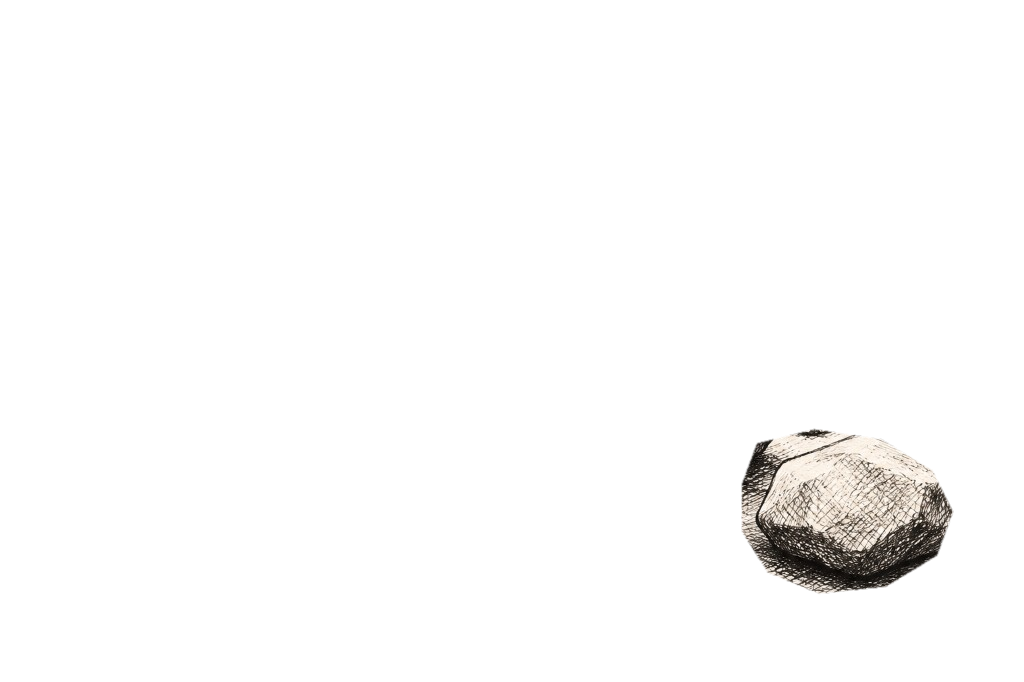
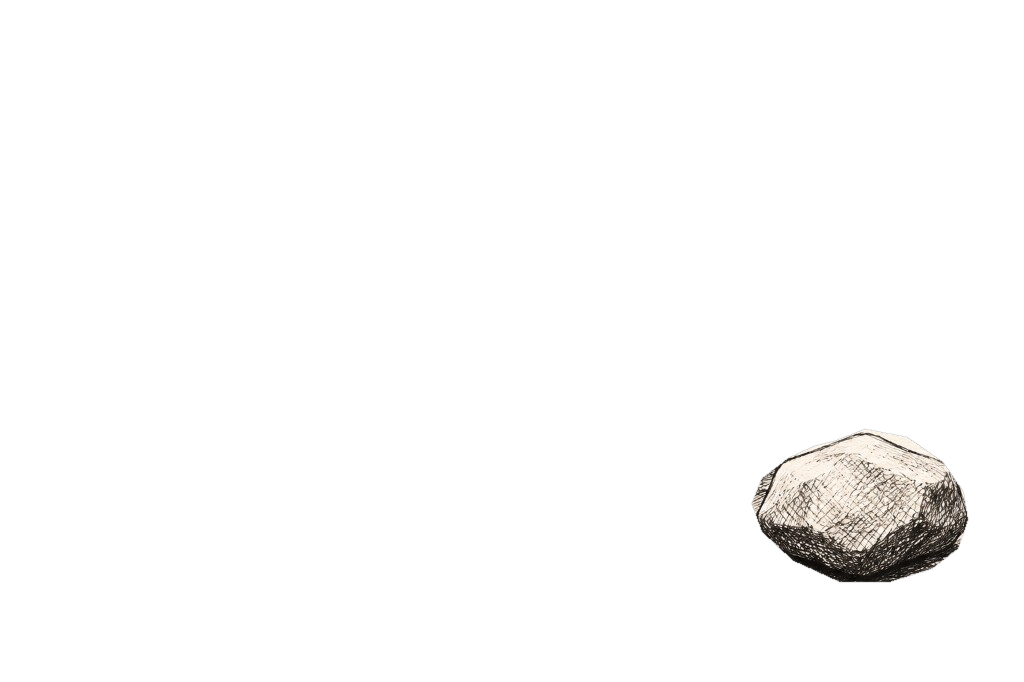
Revert "Merge pull request #30 from lilbirdlifecoaching/fix/rocks-idle-shimmer-no-instructions"
This reverts commit 776309d9571c6f7d0b42865dfe5ef14d01a9d112, reversing
changes made to c748cfa9e1f27547999dad33d99e03ef2b3f748c.

Changed region(s): [[0.7188, 0.6158, 0.9062, 0.893], [0.875, 0.6466, 0.9688, 0.8314]]

diff --git a/index.html b/index.html
@@ -61,7 +61,7 @@
   <link rel="preconnect" href="https://fonts.gstatic.com" crossorigin />
   <link href="https://fonts.googleapis.com/css2?family=Playfair+Display:ital,wght@0,400;0,700;1,400;1,700&family=DM+Sans:wght@300;400;500&family=DM+Mono:wght@300;400&family=Space+Mono:wght@400;700&display=swap" rel="stylesheet" />
   <link rel="stylesheet" href="/css/lilbird-tokens.css?v=20260917k" />
-  <link rel="stylesheet" href="/css/lilbird-home.css?v=20261103g" />
+  <link rel="stylesheet" href="/css/lilbird-home.css?v=20261103f" />
   <link rel="stylesheet" href="/css/lilbird-chat.css?v=20260917k" />
   <!-- Google Tag Manager -->
   <script src="/lilbird-gtm-id.js"></script>
@@ -291,19 +291,22 @@
     <h2 class="story-headline reveal reveal-delay-1">
       The rocks in<br/><em>the backpack.</em>
     </h2>
+    <p class="story-body reveal reveal-delay-2">
+      Hover a rock. If one of these is yours, open it and read the article.
+    </p>
     <div class="rocks-stage reveal reveal-delay-2" id="rocks-stage">
       <img class="rocks-art" src="/images/home/backpack-rocks.jpg" alt="A sketched blue backpack on the floor with rocks and Big Bird spilling out" width="1024" height="682" loading="lazy" decoding="async" />
       <div class="hotspot-glows" aria-hidden="true">
-        <img class="hotspot-glow" data-glow="rock-1" src="/images/home/backpack-rocks.jpg" data-hit="/images/home/hotspots/rock-1-hit.png?v=20261103g" style="--hotspot-mask:url('/images/home/hotspots/rock-1-full.png?v=20261103g')" alt="" width="1024" height="682" decoding="async" />
-        <img class="hotspot-glow" data-glow="rock-2" src="/images/home/backpack-rocks.jpg" data-hit="/images/home/hotspots/rock-2-hit.png?v=20261103g" style="--hotspot-mask:url('/images/home/hotspots/rock-2-full.png?v=20261103g')" alt="" width="1024" height="682" decoding="async" />
-        <img class="hotspot-glow" data-glow="rock-3" src="/images/home/backpack-rocks.jpg" data-hit="/images/home/hotspots/rock-3-hit.png?v=20261103g" style="--hotspot-mask:url('/images/home/hotspots/rock-3-full.png?v=20261103g')" alt="" width="1024" height="682" decoding="async" />
-        <img class="hotspot-glow" data-glow="rock-4" src="/images/home/backpack-rocks.jpg" data-hit="/images/home/hotspots/rock-4-hit.png?v=20261103g" style="--hotspot-mask:url('/images/home/hotspots/rock-4-full.png?v=20261103g')" alt="" width="1024" height="682" decoding="async" />
+        <img class="hotspot-glow" data-glow="rock-1" src="/images/home/backpack-rocks.jpg" data-hit="/images/home/hotspots/rock-1-hit.png?v=20261103f" style="--hotspot-mask:url('/images/home/hotspots/rock-1-full.png?v=20261103f')" alt="" width="1024" height="682" decoding="async" />
+        <img class="hotspot-glow" data-glow="rock-2" src="/images/home/backpack-rocks.jpg" data-hit="/images/home/hotspots/rock-2-hit.png?v=20261103f" style="--hotspot-mask:url('/images/home/hotspots/rock-2-full.png?v=20261103f')" alt="" width="1024" height="682" decoding="async" />
+        <img class="hotspot-glow" data-glow="rock-3" src="/images/home/backpack-rocks.jpg" data-hit="/images/home/hotspots/rock-3-hit.png?v=20261103f" style="--hotspot-mask:url('/images/home/hotspots/rock-3-full.png?v=20261103f')" alt="" width="1024" height="682" decoding="async" />
+        <img class="hotspot-glow" data-glow="rock-4" src="/images/home/backpack-rocks.jpg" data-hit="/images/home/hotspots/rock-4-hit.png?v=20261103f" style="--hotspot-mask:url('/images/home/hotspots/rock-4-full.png?v=20261103f')" alt="" width="1024" height="682" decoding="async" />
       </div>
       <div class="hotspot-targets">
-        <button type="button" class="art-hotspot" data-glow="rock-1" data-phrase="I know something needs to change. I just can't name what." data-href="/articles/how-do-you-know-youre-ready-for-life-coaching.html" aria-label="Rock: I know something needs to change" style="left:23.3%;top:63.5%;width:17.7%;height:22.9%"></button>
-        <button type="button" class="art-hotspot" data-glow="rock-2" data-phrase="I keep having the same conversations with myself and going nowhere." data-href="/articles/stuck-between-two-paths.html" aria-label="Rock: same conversations going nowhere" style="left:47.4%;top:70.1%;width:20.2%;height:20.2%"></button>
-        <button type="button" class="art-hotspot" data-glow="rock-3" data-phrase="On paper, my life looks fine. From the inside, it doesn't feel like mine." data-href="/articles/on-paper-my-life-looks-fine.html" aria-label="Rock: on paper my life looks fine" style="left:50.4%;top:39%;width:20.6%;height:25.8%"></button>
-        <button type="button" class="art-hotspot" data-glow="rock-4" data-phrase="I'm not in crisis. I'm just stuck. And I'm tired of it." data-href="/articles/feeling-stuck-in-your-late-twenties.html" aria-label="Rock: not in crisis, just stuck" style="left:71.9%;top:62%;width:21.7%;height:25.8%"></button>
+        <button type="button" class="art-hotspot" data-glow="rock-1" data-phrase="I know something needs to change. I just can't name what." data-href="/articles/how-do-you-know-youre-ready-for-life-coaching.html" aria-label="Rock: I know something needs to change" style="left:23.9%;top:62.5%;width:20%;height:24.2%"></button>
+        <button type="button" class="art-hotspot" data-glow="rock-2" data-phrase="I keep having the same conversations with myself and going nowhere." data-href="/articles/stuck-between-two-paths.html" aria-label="Rock: same conversations going nowhere" style="left:41.4%;top:64.1%;width:10.1%;height:11.3%"></button>
+        <button type="button" class="art-hotspot" data-glow="rock-3" data-phrase="On paper, my life looks fine. From the inside, it doesn't feel like mine." data-href="/articles/on-paper-my-life-looks-fine.html" aria-label="Rock: on paper my life looks fine" style="left:53.5%;top:41.9%;width:17.3%;height:16.3%"></button>
+        <button type="button" class="art-hotspot" data-glow="rock-4" data-phrase="I'm not in crisis. I'm just stuck. And I'm tired of it." data-href="/articles/feeling-stuck-in-your-late-twenties.html" aria-label="Rock: not in crisis, just stuck" style="left:73%;top:62.3%;width:21.8%;height:23.5%"></button>
       </div>
       <div class="rock-pop" id="rock-pop" hidden>
         <p class="rock-pop-kicker">One of the rocks</p>
@@ -569,7 +572,7 @@
 <script src="/first-flight-booking.js"></script>
 <script src="/lb-chat-safe.js"></script>
 <script src="/js/lilbird-theme.js?v=20261103a"></script>
-<script src="/js/lilbird-home.js?v=20261103g"></script>
+<script src="/js/lilbird-home.js?v=20261103f"></script>
 <script src="/js/lilbird-chat.js"></script>
 </body>
 </html>

diff --git a/css/lilbird-home.css b/css/lilbird-home.css
@@ -1902,27 +1902,9 @@ footer, .site-footer {
   box-shadow: inset 0 0 0 2px rgba(245, 200, 66, 0.55);
 }
 .rocks-stage .hotspot-glow {
-  /* Idle shimmer so the stones read as clickable without copy */
+  /* Same screen blend as the tree — brighten the stone, keep the drawing */
   mix-blend-mode: screen;
-  filter: brightness(1.28) saturate(1.15) contrast(1.02);
-  opacity: 0.42;
-  animation: rock-idle-shimmer 2.8s ease-in-out infinite;
-}
-.rocks-stage .hotspot-glow:nth-child(1) { animation-delay: 0s; }
-.rocks-stage .hotspot-glow:nth-child(2) { animation-delay: 0.45s; }
-.rocks-stage .hotspot-glow:nth-child(3) { animation-delay: 0.9s; }
-.rocks-stage .hotspot-glow:nth-child(4) { animation-delay: 1.35s; }
-.rocks-stage .hotspot-glow.is-lit {
-  opacity: 1;
-  filter: brightness(1.55) saturate(1.3) contrast(1.06);
-  animation: none;
-}
-@keyframes rock-idle-shimmer {
-  0%, 100% { opacity: 0.28; }
-  50% { opacity: 0.55; }
-}
-@media (prefers-reduced-motion: reduce) {
-  .rocks-stage .hotspot-glow { animation: none; opacity: 0.4; }
+  filter: brightness(1.45) saturate(1.25) contrast(1.05);
 }
 .rocks-stage,
 .nest-tree-stage {
